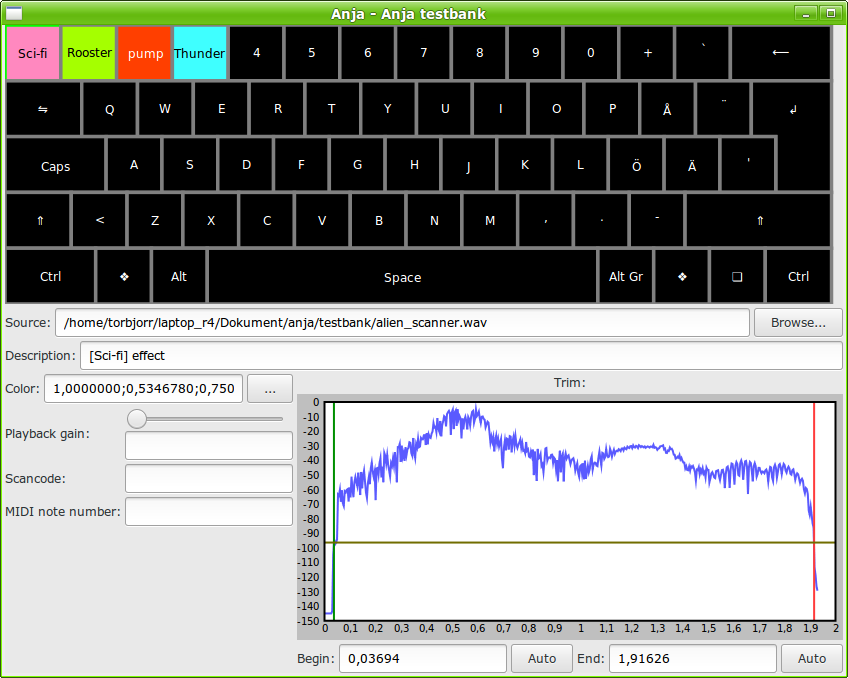
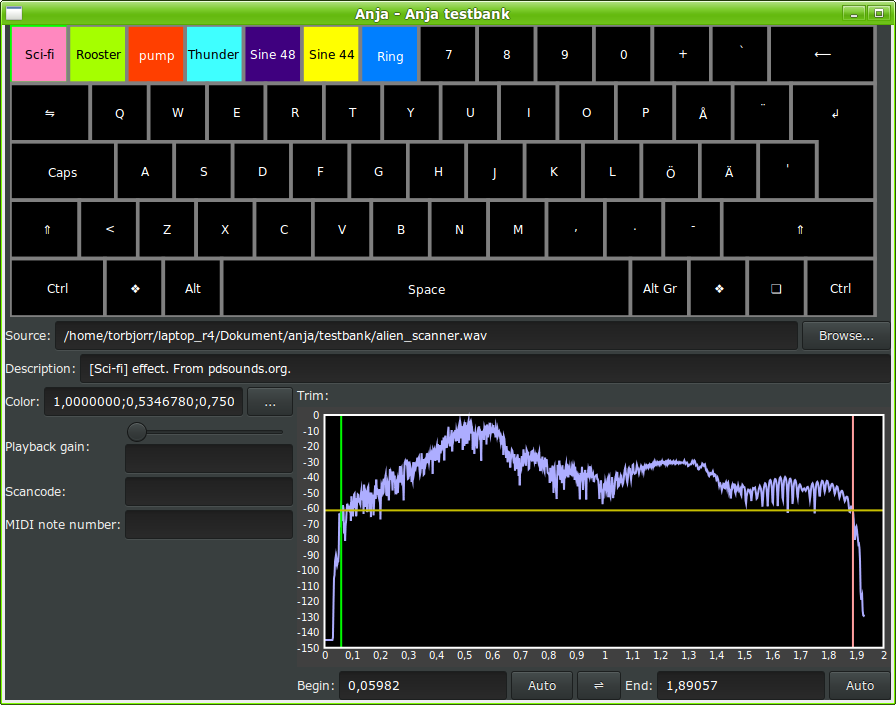
UI tweak

diff --git a/waveformrangeview.cpp b/waveformrangeview.cpp
@@ -10,6 +10,7 @@ target[name[waveformrangeview.o] type[object]]
 #include "framework/boxhorizontal.h"
 #include "framework/color.h"
 #include "framework/curve.h"
+#include "framework/button.h"
 
 #include <cstdio>
 #include <cstdlib>
@@ -121,6 +122,17 @@ void WaveformRangeView::EventHandlerEntry::onTextChanged(InputEntry& source)
 		{r_view.rangeUpdate(source.idGet(),x);}
 	}
 
+void WaveformRangeView::EventHandlerEntry::onCommand(BoxVertical& source
+	,unsigned int command_id)
+	{
+	switch(command_id)
+		{
+		case COMMAND_REVERSE:
+			r_view.reverse();
+			break;
+		}
+	}
+
 
 
 WaveformRangeView* WaveformRangeView::create(GuiContainer& parent
@@ -129,9 +141,9 @@ WaveformRangeView* WaveformRangeView::create(GuiContainer& parent
 
 WaveformRangeView::WaveformRangeView(GuiContainer& parent,EventHandler& handler):
 	r_range(nullptr),r_handler(&handler),r_parent(parent)
-	,plot_handler(*this),entry_handler(*this),m_waveform_curve(512),m_fs(48000)
+	,m_plot_handler(*this),m_entry_handler(*this),m_waveform_curve(1024),m_fs(48000)
 	{
-	m_box_main=BoxVertical::create(parent);
+	m_box_main=BoxVertical::create(parent,&m_entry_handler);
 	m_box_main->slaveAssign(*this);
 
 	m_box_main->insertModeSet(BoxVertical::INSERTMODE_FILL
@@ -142,17 +154,22 @@ WaveformRangeView::WaveformRangeView(GuiContainer& parent,EventHandler& handler)
 	m_box_positions=BoxHorizontal::create(*m_box_main);
 
 	m_entries[0]=InputEntry::create(*m_box_positions,"Begin:","Auto"
-		,entry_handler,0);
+		,m_entry_handler,0);
 
-	m_box_positions->insertModeSet(BoxVertical::INSERTMODE_END);
+	m_box_positions->insertModeSet(BoxHorizontal::INSERTMODE_FILL
+		|BoxHorizontal::INSERTMODE_EXPAND);
+	m_swap=Button::create(*m_box_positions,"⇌",EventHandlerEntry::COMMAND_REVERSE);
+
+	m_box_positions->insertModeSet(BoxHorizontal::INSERTMODE_END);
 	m_entries[1]=InputEntry::create(*m_box_positions,"End:","Auto"
-		,entry_handler,1);
+		,m_entry_handler,1);
+
 
 	auto c_begin=m_plot->cursorXAdd({-0.5,1.0f/3});
 	m_plot->cursorXAdd({0.5,0});
 	m_plot->cursorYAdd({-100,0.16f});
-	plot_handler.cursorsRefSet(m_plot->cursorXGet(c_begin));
-	m_plot->eventHandlerSet(plot_handler);
+	m_plot_handler.cursorsRefSet(m_plot->cursorXGet(c_begin));
+	m_plot->eventHandlerSet(m_plot_handler);
 
 	auto nullsignal=Waveform::nullGet();
 	waveformSet(nullsignal);
@@ -171,11 +188,13 @@ WaveformRangeView::WaveformRangeView(GuiContainer& parent,EventHandler& handler)
 				,0
 			 }
 		});
+	m_plot->backgroundSet(0);
 	}
 
 WaveformRangeView::~WaveformRangeView()
 	{
 	m_entries[0]->destroy();
+	m_swap->destroy();
 	m_entries[1]->destroy();
 	m_box_positions->destroy();
 	m_plot->destroy();
@@ -203,6 +222,11 @@ void WaveformRangeView::cursorSet(unsigned int index,double x)
 	{
 	m_plot->cursorXGet(index).position=x;
 	m_plot->update();
+	}
+
+void WaveformRangeView::reverse()
+	{
+	r_handler->reverse(*this);
 	}
 
 void WaveformRangeView::waveformSet(Waveform& range)

diff --git a/waveformrangeview.h b/waveformrangeview.h
@@ -29,6 +29,8 @@ class WaveformRangeView:public Widget
 				virtual void endUpdate(WaveformRangeView& view
 					,uint32_t position)=0;
 
+				virtual void reverse(WaveformRangeView& view)=0;
+
 				virtual void beginAutotrim(WaveformRangeView& view,float threshold)=0;
 
 				virtual void endAutotrim(WaveformRangeView& view,float threshold)=0;
@@ -82,11 +84,15 @@ class WaveformRangeView:public Widget
 			};
 
 		class EventHandlerEntry:public InputEntry::EventHandler
+			,public BoxVertical::EventHandler
 			{
 			public:
+				static constexpr unsigned int COMMAND_REVERSE=0;
+
 				EventHandlerEntry(WaveformRangeView& view);
 				void onButtonClick(InputEntry& source);
 				void onTextChanged(InputEntry& source);
+				void onCommand(BoxVertical& source,unsigned int command_id);
 
 			private:
 				WaveformRangeView& r_view;
@@ -96,18 +102,20 @@ class WaveformRangeView:public Widget
 		void cursorSet(unsigned int index,double x);
 		void autotrim(unsigned int index);
 		void rangeUpdate(unsigned int index, double position);
+		void reverse();
 
 		Waveform* r_range;
 		EventHandler* r_handler;
 
 		GuiContainer& r_parent;
 
-		EventHandlerPlot plot_handler;
-		EventHandlerEntry entry_handler;
+		EventHandlerPlot m_plot_handler;
+		EventHandlerEntry m_entry_handler;
 		BoxVertical* m_box_main;
 		XYPlot* m_plot;
 		BoxHorizontal* m_box_positions;
 		InputEntry* m_entries[2];
+		Button* m_swap;
 
 		ArraySimple<Curve::Point> m_waveform_curve;
 		double m_fs;

diff --git a/waveformdataview.cpp b/waveformdataview.cpp
@@ -116,9 +116,9 @@ WaveformDataView::WaveformDataView(GuiContainer& parent
 				|BoxHorizontal::INSERTMODE_FILL
 				|BoxHorizontal::INSERTMODE_EXPAND);
 			m_description_textbox=Textbox::create(*m_description_box,DESCRIPTION);
-		m_box_main->insertModeSet(BoxHorizontal::INSERTMODE_EXPAND
-					|BoxHorizontal::INSERTMODE_FILL
-					|BoxHorizontal::INSERTMODE_END);
+		m_box_main->insertModeSet(BoxVertical::INSERTMODE_EXPAND
+					|BoxVertical::INSERTMODE_FILL
+					|BoxVertical::INSERTMODE_END);
 		m_box_details=BoxHorizontal::create(*m_box_main);
 			m_box_left=BoxVertical::create(*m_box_details);
 				m_color=InputEntry::create(*m_box_left,"Color:","...",m_color_events,0);
@@ -143,10 +143,11 @@ WaveformDataView::WaveformDataView(GuiContainer& parent
 					|BoxHorizontal::INSERTMODE_END);
 
 			m_trim_box=BoxVertical::create(*m_box_details);
+				m_trim_box->insertModeSet(BoxVertical::INSERTMODE_LEFT);
 				m_trim_label=Label::create(*m_trim_box,"Trim:");
-				m_trim_box->insertModeSet(BoxHorizontal::INSERTMODE_EXPAND
-					|BoxHorizontal::INSERTMODE_FILL
-					|BoxHorizontal::INSERTMODE_END);
+				m_trim_box->insertModeSet(BoxVertical::INSERTMODE_EXPAND
+					|BoxVertical::INSERTMODE_FILL
+					|BoxVertical::INSERTMODE_END);
 				m_trim_input=WaveformRangeView::create(*m_trim_box,handler_range);
 	}
 

diff --git a/framework/eventloop.h b/framework/eventloop.h
@@ -13,11 +13,8 @@ class EventLoop
 	private:
 		typedef void (*Destructor)(EventLoop* eventloop);
 	public:
-		EventLoop() noexcept:m_n_windows(0)
-			{}
-
-		static std::unique_ptr<EventLoop,Destructor> create()
-			{return {instanceCreate(),destroy};}
+		static std::unique_ptr<EventLoop,Destructor> create(bool background_light=true)
+			{return {instanceCreate(background_light),destroy};}
 
 		virtual void run()=0;
 
@@ -31,10 +28,13 @@ class EventLoop
 			{return m_n_windows!=0;}
 
 	protected:
+		EventLoop() noexcept:m_n_windows(0)
+			{}
+
 		virtual ~EventLoop()=default;
 
 	private:
-		static EventLoop* instanceCreate();
+		static EventLoop* instanceCreate(bool background_light);
 		static void destroy(EventLoop* eventloop)
 			{eventloop->run();}
 		size_t m_n_windows;

diff --git a/framework/eventloop.cpp b/framework/eventloop.cpp
@@ -24,7 +24,7 @@ target
 class EventLoopGtk:public EventLoop
 	{
 	public:
-		EventLoopGtk();
+		EventLoopGtk(bool background_light);
 		void run();
 
 	private:
@@ -33,11 +33,13 @@ class EventLoopGtk:public EventLoop
 
 bool EventLoopGtk::s_init=0;
 
-EventLoopGtk::EventLoopGtk()
+EventLoopGtk::EventLoopGtk(bool background_light)
 	{
 	if(!s_init)
 		{
 		gtk_init(0,NULL);
+		g_object_set(gtk_settings_get_default(),"gtk-application-prefer-dark-theme"
+			,!background_light,NULL);
 		s_init=1;
 		}
 	}
@@ -51,7 +53,7 @@ void EventLoopGtk::run()
 	delete this;
 	}
 
-EventLoop* EventLoop::instanceCreate()
+EventLoop* EventLoop::instanceCreate(bool background_light)
 	{
-	return new EventLoopGtk();
+	return new EventLoopGtk(background_light);
 	}

diff --git a/waveform.h b/waveform.h
@@ -65,9 +65,19 @@ class Waveform
 			return *this;
 			}
 
+		Waveform& reverse()
+			{
+			std::swap(m_offset_end,m_offset_begin);
+			return *this;
+			}
+
+
 
 		uint32_t length() const
-			{return m_offset_end-m_offset_begin;}
+			{
+			return reversedIs()?
+				m_offset_begin-m_offset_end:m_offset_end-m_offset_begin;
+			}
 
 		uint32_t lengthFull() const
 			{return m_data.length();}

diff --git a/waveformrangetrimmer.cpp b/waveformrangetrimmer.cpp
@@ -19,6 +19,12 @@ void WaveformRangeTrimmer::endUpdate(WaveformRangeView& view,uint32_t position)
 	view.cursorsUpdate();
 	}
 
+void WaveformRangeTrimmer::reverse(WaveformRangeView& view)
+	{
+	view.waveformGet().reverse();
+	view.cursorsUpdate();
+	}
+
 void WaveformRangeTrimmer::beginAutotrim(WaveformRangeView& view,float threshold)
 	{
 	auto& range=view.waveformGet();

diff --git a/waveformrangetrimmer.h b/waveformrangetrimmer.h
@@ -19,6 +19,8 @@ class WaveformRangeTrimmer:public WaveformRangeView::EventHandler
 
 		void endUpdate(WaveformRangeView& view,uint32_t position);
 
+		void reverse(WaveformRangeView& view);
+
 		void beginAutotrim(WaveformRangeView& view,float threshold);
 
 		void endAutotrim(WaveformRangeView& view,float threshold);

diff --git a/framework/boxvertical.h b/framework/boxvertical.h
@@ -22,6 +22,7 @@ class BoxVertical:public GuiContainer
 		static constexpr uint32_t INSERTMODE_END=1;
 		static constexpr uint32_t INSERTMODE_EXPAND=2;
 		static constexpr uint32_t INSERTMODE_FILL=4;
+		static constexpr uint32_t INSERTMODE_LEFT=8;
 
 		virtual void insertModeSet(uint32_t mode)=0;
 	};

diff --git a/framework/boxvertical-linux.cpp b/framework/boxvertical-linux.cpp
@@ -112,6 +112,10 @@ void BoxVerticalGtk::componentAdd(Widget& widget)
 		gtk_box_pack_start((GtkBox*)box,h,insert_mode&INSERTMODE_EXPAND
 			,insert_mode&INSERTMODE_FILL,0);
 		}
+
+	if(insert_mode&INSERTMODE_LEFT)
+		{gtk_widget_set_halign(h,GTK_ALIGN_START);}
+
 	gtk_widget_show(h);
 	}
 

diff --git a/main.cpp b/main.cpp
@@ -19,7 +19,7 @@ int main()
 		KeyboardController keyboardevents(session);
 		WaveformDataUpdater waveform_updater;
 
-		auto event_loop=EventLoop::create();
+		auto event_loop=EventLoop::create(0);
 		auto mainwin=Window::create(*event_loop);
 
 		ArrayDynamicShort<char> title("Anja - ");

diff --git a/audioconnection-linux.cpp b/audioconnection-linux.cpp
@@ -152,7 +152,7 @@ void AudioConnectionJack::eventPost(Session& session,uint8_t slot,uint8_t flags)
 
 int AudioConnectionJack::bufferAllocate(jack_nframes_t n_frames,void* audioconnectionjack)
 	{
-	printf("Hello\n");
+
 	return 0;
 	}
 
